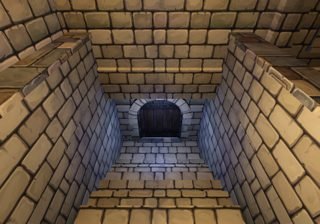
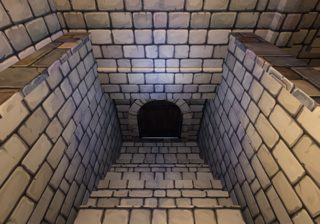
Nedgangen: det blå lyset står i rommet over sjakta
Lyset under gulvet sto utenfor alle rom (lyset_folger_rommene_i_provenivaaet).

Claude-Session: https://claude.ai/code/session_01HjRNadLHQ1vF9573PymvAE

diff --git a/tools/crypt/modules_grav.py b/tools/crypt/modules_grav.py
@@ -77,7 +77,7 @@ MODULES = [
            things=[{"id": "ned", "kind": "down", "anchor": "celle:c00"}],
            # Det blå lyset fra døra nederst i trappa (`kit_down`), så trappa
            # og døra synes fra toppen (eieren 20. oktober: «bare et grått hull»).
-           lights=[{"id": "ned", "anchor": "celle:c00", "pos": [0, -1.2, -1.4], "color": [0.45, 0.62, 1.0], "range": 6.5, "flicker": False, "intensity": 1.6}]),
+           lights=[{"id": "ned", "anchor": "celle:c00", "pos": [0, 0.3, -1.0], "color": [0.45, 0.62, 1.0], "range": 7, "flicker": False, "intensity": 1.6}]),
     # De sammensatte.
     # Kuppelen var for mørk (eieren 19. oktober): ei hjulkrone henger fra
     # sluttsteinen (kroken i toppen av kuppelen, `ROT_CROWN` 7,6 m; hjulet
